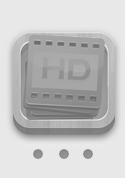
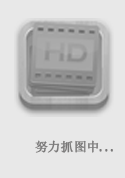
add activity indicator; optimize set source performance

diff --git a/HDVideo/Controllers/VideoBrowserController.m b/HDVideo/Controllers/VideoBrowserController.m
@@ -57,11 +57,7 @@
 {
     [super didReceiveMemoryWarning];
     
-    // terminate all pending download connections
-    NSArray *allDownloads = [_posterDownloadsInProgress allValues];
-    for (PosterDownloader *downloader in allDownloads) {
-        [downloader performSelector:@selector(cancelDownload)];
-    }
+    [self cancelDownloading];
 }
 
 - (BOOL)shouldAutorotateToInterfaceOrientation:(UIInterfaceOrientation)interfaceOrientation
@@ -183,17 +179,21 @@
             rows += 1;
         _scrollView.contentSize = CGSizeMake(_scrollView.bounds.size.width,
                                              LOCATION_Y + (ITEM_HEIGHT + ITEM_SPACING_V)*rows);
-        
-        // cancel all posters downloading
-        if (self.posterDownloadsInProgress && [self.posterDownloadsInProgress count] > 0){
-            // terminate all pending download connections
-            NSArray *allDownloads = [self.posterDownloadsInProgress allValues];
-            [allDownloads makeObjectsPerformSelector:@selector(cancelDownload)];
-            [_posterDownloadsInProgress removeAllObjects];
-        }
+        [self cancelDownloading];
+        [_posterDownloadsInProgress removeAllObjects];
         
         [self tileVideos];
         _scrollView.delegate = self;
+    }
+}
+
+- (void)cancelDownloading
+{
+    // cancel all posters downloading
+    if (self.posterDownloadsInProgress && [self.posterDownloadsInProgress count] > 0){
+        // terminate all pending download connections
+        NSArray *allDownloads = [self.posterDownloadsInProgress allValues];
+        [allDownloads makeObjectsPerformSelector:@selector(cancelDownload)];
     }
 }
 

diff --git a/HDVideo/Views/VideoItemView.m b/HDVideo/Views/VideoItemView.m
@@ -117,6 +117,13 @@
         _count.shadowOffset = CGSizeMake(0, 1);
         [self addSubview:_count];
         
+        rect = CGRectMake(23, 137, 20, 20);
+        _spinner = [[UIActivityIndicatorView alloc] initWithActivityIndicatorStyle:UIActivityIndicatorViewStyleGray];
+        _spinner.frame = rect;
+        _spinner.hidesWhenStopped = YES;
+        [self addSubview:_spinner];
+        [_spinner startAnimating];
+
         // tap gesture
         UITapGestureRecognizer *gesture = [[UITapGestureRecognizer alloc] initWithTarget:self
                                                                                   action:@selector(posterTapped:)];
@@ -148,9 +155,8 @@
         _source = [source retain];
     }
     [self setNeedsLayout];
-}
-
-- (void)layoutSubviews{
+    
+    // update controls
     _name.text = _source.name;
     _newRibbon.hidden = (!_source.isNewItem);
     
@@ -175,6 +181,8 @@
             _poster.layer.shadowPath = [self renderRect:_poster];
         else
             _poster.layer.shadowPath = [self renderPaperCurl:_poster];
+        
+        [_spinner stopAnimating];
     }
     else
     {
@@ -200,6 +208,7 @@
     [_count release];
     [_countRibbon release];
     [_source release];
+    [_spinner release];
     
     [super dealloc];
 }

diff --git a/HDVideo/Views/VideoItemView.h b/HDVideo/Views/VideoItemView.h
@@ -18,6 +18,7 @@
     
     UILabel *_name;
     UILabel *_count;
+    UIActivityIndicatorView *_spinner;
 }
 
 @property (nonatomic, retain) VideoItem *source;

diff --git a/HDVideo/Controllers/VideoBrowserController.h b/HDVideo/Controllers/VideoBrowserController.h
@@ -31,4 +31,6 @@
 - (BOOL)isDisplayingVideoForIndex:(NSUInteger)index;
 - (CGRect)frameForVideoAtIndex:(NSUInteger)index;
 
+- (void)cancelDownloading;
+
 @end
